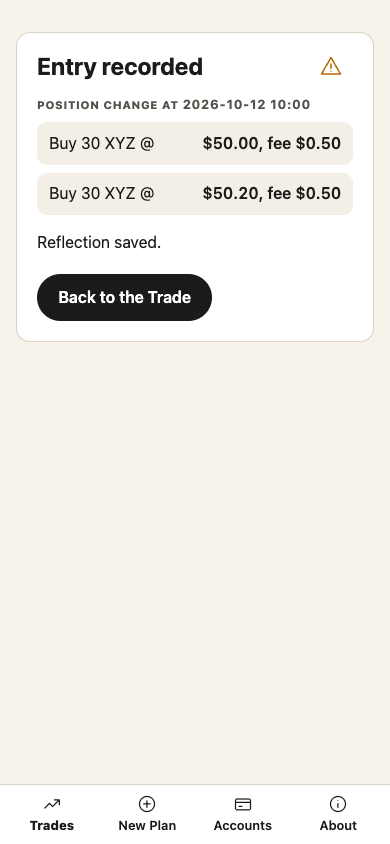
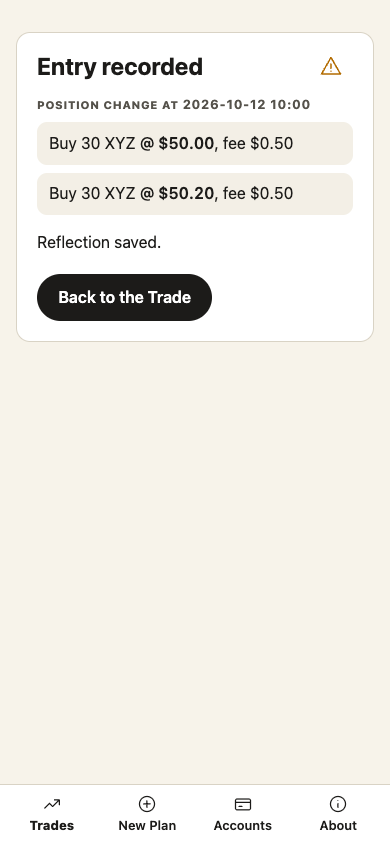
style(ui): T2.62 narrow line breaks for the Underlying header, "@ price" and Execution rows
Claude-Session: https://claude.ai/code/session_0115bntoBTHkkC72fZTEU7bt

Changed region(s): [[0.3692, 0.2156, 0.8923, 0.2464], [0.3692, 0.154, 0.8923, 0.1848]]

diff --git a/e2e/d2/ui-alignment.spec.ts b/e2e/d2/ui-alignment.spec.ts
@@ -1187,7 +1187,9 @@ test.describe('T2.53 Detail, receipt and Accounts styling', () => {
     await context.close();
   });
 
-  test('should put each Execution row on the tint with its money right-aligned', async ({ server, profile }) => {
+  // U9(d) (T2.62) replaced the right-aligned money with one phrase, so this asserts the tint only; the price
+  // placement is measured under T2.62 line breaks.
+  test('should put each Execution row on the tint', async ({ server, profile }) => {
     void server;
     const context = await profile.launch();
     const page = await onboardedPage(context);
@@ -1197,28 +1199,9 @@ test.describe('T2.53 Detail, receipt and Accounts styling', () => {
       await page.setViewportSize({ width, height: 900 });
       await expectLayout(page, width);
       const tint = await tokenColour(page, '--tint');
-      const rows = await section.locator('ul.executions > li').evaluateAll((els) =>
-        els.map((el) => {
-          const money = el.querySelector<HTMLElement>('.execution-money');
-          const summary = el.querySelector<HTMLElement>('.execution-summary');
-          const what = el.querySelector<HTMLElement>('.execution-what');
-          return {
-            ground: getComputedStyle(el).backgroundColor,
-            align: money ? getComputedStyle(money).textAlign : '',
-            moneyRight: money?.getBoundingClientRect().right ?? Number.NaN,
-            summaryRight: summary?.getBoundingClientRect().right ?? Number.NaN,
-            moneyLeft: money?.getBoundingClientRect().left ?? Number.NaN,
-            whatRight: what?.getBoundingClientRect().right ?? Number.NaN,
-          };
-        }),
-      );
-      expect(rows.length, `rows at ${width}`).toBe(3);
-      for (const row of rows) {
-        expect(row.ground, `row ground at ${width}`).toBe(tint);
-        expect(row.align, `money alignment at ${width}`).toBe('right');
-        expect(Math.abs(row.moneyRight - row.summaryRight), `money flush right at ${width}`).toBeLessThanOrEqual(1);
-        expect(row.moneyLeft, `money after the action text at ${width}`).toBeGreaterThanOrEqual(row.whatRight);
-      }
+      const grounds = await section.locator('ul.executions > li').evaluateAll((els) => els.map((el) => getComputedStyle(el).backgroundColor));
+      expect(grounds.length, `rows at ${width}`).toBe(3);
+      for (const ground of grounds) expect(ground, `row ground at ${width}`).toBe(tint);
     }
     await context.close();
   });
@@ -1236,17 +1219,12 @@ test.describe('T2.53 Detail, receipt and Accounts styling', () => {
       const tint = await tokenColour(page, '--tint');
       const rows = await receipt.locator('ul.executions > li').evaluateAll((els) =>
         els.map((el) => {
-          const money = el.querySelector('.execution-money') as HTMLElement;
-          return { ground: getComputedStyle(el).backgroundColor, align: getComputedStyle(money).textAlign, moneyRight: money.getBoundingClientRect().right, right: el.getBoundingClientRect().right - parseFloat(getComputedStyle(el).paddingRight), text: el.textContent };
+          return { ground: getComputedStyle(el).backgroundColor, text: el.textContent };
         }),
       );
       expect(rows.length, `receipt rows at ${width}`).toBe(2);
       expect(rows[0]!.text, 'receipt row text').toMatch(/^Buy 30 XYZ @ \$50\.00, fee \$0\.50$/);
-      for (const row of rows) {
-        expect(row.ground, `receipt row ground at ${width}`).toBe(tint);
-        expect(row.align, `receipt money alignment at ${width}`).toBe('right');
-        expect(row.right - row.moneyRight, `receipt money flush right at ${width}`).toBeLessThanOrEqual(1);
-      }
+      for (const row of rows) expect(row.ground, `receipt row ground at ${width}`).toBe(tint);
       const link = receipt.getByRole('link', { name: 'Back to the Trade' });
       const look = await link.evaluate((el) => {
         const s = getComputedStyle(el);
@@ -1467,4 +1445,133 @@ test.describe('T2.55-B6 narrow 1R and Reward : risk on an incoherent Planned row
       await context.close();
     });
   }
+});
+
+// Client rects of the first "@" and of the price after it, and of "fee" and its amount, found by walking the
+// element's text so spans and inline markup do not matter. Runs in the page, so it is self-contained.
+interface AtPair {
+  readonly text: string;
+  readonly atTop: number;
+  readonly priceTop: number;
+  readonly atRight: number;
+  readonly priceLeft: number;
+  readonly feeTop: number | undefined;
+  readonly feeAmountTop: number | undefined;
+}
+
+const atPairs = (loc: Locator): Promise<AtPair[]> =>
+  loc.evaluateAll((els) => {
+    const rectOf = (el: Element, from: number, to: number): DOMRect => {
+      const walker = document.createTreeWalker(el, NodeFilter.SHOW_TEXT);
+      const range = document.createRange();
+      let offset = 0;
+      let started = false;
+      for (let n = walker.nextNode(); n; n = walker.nextNode()) {
+        const len = (n.textContent ?? '').length;
+        if (!started && from < offset + len) {
+          range.setStart(n, from - offset);
+          started = true;
+        }
+        if (started && to <= offset + len) {
+          range.setEnd(n, to - offset);
+          break;
+        }
+        offset += len;
+      }
+      return range.getBoundingClientRect();
+    };
+    return els.map((el) => {
+      const text = el.textContent ?? '';
+      const at = text.indexOf('@');
+      const price = text.indexOf('$', at);
+      const fee = text.indexOf('fee');
+      const feeAmount = fee < 0 ? -1 : text.indexOf('$', fee);
+      const atRect = rectOf(el, at, at + 1);
+      const priceRect = rectOf(el, price, price + 1);
+      return {
+        text,
+        atTop: atRect.top,
+        priceTop: priceRect.top,
+        atRight: atRect.right,
+        priceLeft: priceRect.left,
+        feeTop: fee < 0 ? undefined : rectOf(el, fee, fee + 3).top,
+        feeAmountTop: feeAmount < 0 ? undefined : rectOf(el, feeAmount, feeAmount + 1).top,
+      };
+    });
+  });
+
+function expectAtWithPrice(pairs: readonly AtPair[], where: string): void {
+  for (const p of pairs) {
+    expect(Math.abs(p.priceTop - p.atTop), `${where}: price on the line of its "@" in "${p.text}"`).toBeLessThanOrEqual(1);
+    if (p.feeTop !== undefined) expect(Math.abs(p.feeAmountTop! - p.feeTop), `${where}: fee beside its amount in "${p.text}"`).toBeLessThanOrEqual(1);
+  }
+}
+
+test.describe('T2.62 line breaks', () => {
+  for (const width of [320, 390, 1280]) {
+    test(`should keep the Underlying header on one line and each Trade cell's "@" with its price at ${width}`, async ({ server, profile }) => {
+      void server;
+      const context = await profile.launch();
+      const page = await onboardedPage(context);
+      await seedTrades(page);
+      await page.setViewportSize({ width, height: width === 1280 ? 900 : 844 });
+      await expectLayout(page, width);
+      for (const tab of TABS) {
+        if (tab === 'Planned') await openPlanned(page);
+        const table = page.getByRole('table', { name: `${tab} Trades` });
+        await expect(table).toBeVisible(READY);
+        const header = await table.locator('thead th').first().evaluate((th) => {
+          const range = document.createRange();
+          range.selectNodeContents(th);
+          return { text: th.textContent, height: range.getBoundingClientRect().height, lineHeight: parseFloat(getComputedStyle(th).lineHeight) };
+        });
+        expect(header.text).toBe('Underlying');
+        expect(header.height, `${tab} Underlying header height at ${width}`).toBeLessThanOrEqual(1.6 * header.lineHeight);
+        expectAtWithPrice(await atPairs(table.locator('tbody tr td:nth-child(2)')), `${tab} Trade cell at ${width}`);
+        const overflow = await page.evaluate(() => document.documentElement.scrollWidth - document.documentElement.clientWidth);
+        expect(overflow, `${tab} page overflow at ${width}`).toBeLessThanOrEqual(0);
+      }
+      await context.close();
+    });
+  }
+
+  test('should read each Detail Execution as one phrase with the price straight after the "@" at 320, 390 and 1280', async ({ server, profile }) => {
+    void server;
+    const context = await profile.launch();
+    const page = await onboardedPage(context);
+    await openTradeWithJournal(page);
+    const rows = page.getByRole('region', { name: 'Executions (3)', exact: true }).locator('ul.executions > li .execution-summary');
+    for (const width of [320, 390, 1280]) {
+      await page.setViewportSize({ width, height: 900 });
+      await expectLayout(page, width);
+      const pairs = await atPairs(rows);
+      expect(pairs.length, `Execution rows at ${width}`).toBe(3);
+      expectAtWithPrice(pairs, `Execution row at ${width}`);
+      for (const p of pairs) expect(p.priceLeft - p.atRight, `price follows the "@" at ${width} in "${p.text}"`).toBeLessThanOrEqual(12);
+      expect(await page.evaluate(() => document.documentElement.scrollWidth - document.documentElement.clientWidth), `overflow at ${width}`).toBeLessThanOrEqual(0);
+    }
+    await context.close();
+  });
+
+  test('should read each receipt row as one phrase with the price after the "@" and "fee" beside its amount at 320, 390 and 1280', async ({ server, profile }) => {
+    void server;
+    const context = await profile.launch();
+    const page = await onboardedPage(context);
+    await confirmReference(page);
+    await recordEntry(page, PC1);
+    const rows = page.getByRole('region', { name: 'Entry recorded', exact: true }).locator('ul.executions > li');
+    for (const width of [320, 390, 1280]) {
+      await page.setViewportSize({ width, height: 900 });
+      await expectLayout(page, width);
+      const pairs = await atPairs(rows);
+      expect(pairs.length, `receipt rows at ${width}`).toBe(2);
+      expectAtWithPrice(pairs, `receipt row at ${width}`);
+      for (const p of pairs) {
+        expect(p.feeTop, 'receipt shows a fee').toBeDefined();
+        expect(p.priceLeft - p.atRight, `price follows the "@" at ${width} in "${p.text}"`).toBeLessThanOrEqual(12);
+      }
+      expect(await page.evaluate(() => document.documentElement.scrollWidth - document.documentElement.clientWidth), `overflow at ${width}`).toBeLessThanOrEqual(0);
+    }
+    await context.close();
+  });
 });

diff --git a/src/ui/app.css b/src/ui/app.css
@@ -419,7 +419,7 @@ label.chip:focus-within {
 
 .table-scroll {
   overflow-x: auto;
-  --pin: 5rem;
+  --pin: 6.5rem;
   --shadow: rgba(28, 27, 25, 0.28);
   /* The card ground lives here, under the table, so scroll shadows can be drawn over it. A local
      cover hides each shadow until the region has scrolled that way; the left pair sits beside the
@@ -490,6 +490,12 @@ table.trades th {
   letter-spacing: 0.04em;
   color: var(--muted);
   text-align: left;
+}
+
+/* The pinned header word is never broken inside; the column is sized to hold it. */
+table.trades th:first-child {
+  overflow-wrap: normal;
+  word-break: keep-all;
 }
 
 table.trades th.number {
@@ -748,33 +754,26 @@ ul.executions > li:first-child {
   cursor: pointer;
 }
 
-/* The action text on the left, the money flush right, the time on its own line. */
+/* One phrase, "Buy 30 XYZ @ $50.00", the "@" never parted from its price; the time on its own line. */
 .execution-summary {
   flex: 1 1 0;
   min-width: 0;
-  display: flex;
-  flex-wrap: wrap;
-  column-gap: 0.5rem;
   font-variant-numeric: tabular-nums;
 }
 
 .execution-summary .nowrap {
-  flex-basis: 100%;
+  display: block;
   color: var(--muted);
   font-size: 0.9rem;
 }
 
-.execution-money {
-  margin-left: auto;
+.execution-price {
+  white-space: nowrap;
   font-weight: 600;
 }
 
-/* The receipt reuses the row: no disclosure, the money after the action text. */
+/* The receipt reuses the phrase: no disclosure, the fee after the price. */
 ul.executions > li.execution-line {
-  display: flex;
-  flex-wrap: wrap;
-  justify-content: space-between;
-  column-gap: 0.5rem;
   padding: 0.6rem 0.75rem;
   font-variant-numeric: tabular-nums;
 }

diff --git a/src/ui/screens/TradeList.tsx b/src/ui/screens/TradeList.tsx
@@ -181,12 +181,24 @@ function OpenList({
 
 const NOT_AVAILABLE = 'Not available';
 
+// The "@" stays with its price when the text wraps.
+function TradeText({ text }: { readonly text: string }) {
+  const at = text.indexOf('@ ');
+  if (at < 0) return <span>{text}</span>;
+  return (
+    <span>
+      {text.slice(0, at)}
+      <span className="nowrap">{text.slice(at)}</span>
+    </span>
+  );
+}
+
 // The Trade cell: the summary text, then on a narrow screen a second line with the figures whose
 // columns are hidden there (plan section 2a). The wide layout hides the line instead.
 function TradeCell({ text, disagrees, line }: { readonly text: string; readonly disagrees: boolean; readonly line: string | undefined }) {
   return (
     <>
-      <span>{text}</span>
+      <TradeText text={text} />
       {/* Text, not colour alone, carries the meaning; an agreeing row shows nothing. The spaces keep
           the cell's text and accessible name from running the parts together. */}
       {disagrees && (

diff --git a/src/ui/screens/TradeList.test.tsx b/src/ui/screens/TradeList.test.tsx
@@ -222,7 +222,8 @@ describe('Trades table columns', () => {
     const open = await openTable([openItem]);
     const openCell = within(within(open).getAllByRole('row')[1]!).getAllByRole('cell')[1]!;
     expect(openCell.textContent).toBe('Long 60 shares @ $50.10 Net cost $3,007.00');
-    expect(within(openCell).getByText('Long 60 shares @ $50.10')).toBeTruthy();
+    // T2.62: the "@" and its price sit in one no-wrap span, so the summary text has no break between them.
+    expect(within(openCell).getByText('@ $50.10').className).toBe('nowrap');
     expect(within(openCell).getByText('Net cost $3,007.00').className).toBe('trade-line');
     // The Net cost column carries the same figure for the wide layout.
     expect(within(within(open).getAllByRole('row')[1]!).getAllByRole('cell')[2]!.textContent).toBe('$3,007.00');

diff --git a/src/ui/screens/PositionChangeReceipt.tsx b/src/ui/screens/PositionChangeReceipt.tsx
@@ -70,8 +70,9 @@ export function PositionChangeReceipt({ result, timeZone }: PositionChangeReceip
         <ul className="executions">
           {saved.executions.map((e) => (
             <li key={e.factId} className="execution-line">
-              <span className="execution-what">{`${e.action} ${e.quantity} ${e.instrument.symbol} @`}</span>{' '}
-              <span className="execution-money number">{`${price(e.price)}, fee ${price(e.fee)}`}</span>
+              <span className="execution-what">{`${e.action} ${e.quantity} ${e.instrument.symbol}`}</span>{' '}
+              <span className="execution-price number">{`@ ${price(e.price)}`}</span>,{' '}
+              <span className="nowrap number">{`fee ${price(e.fee)}`}</span>
             </li>
           ))}
         </ul>

diff --git a/src/ui/screens/TradeDetail.tsx b/src/ui/screens/TradeDetail.tsx
@@ -345,8 +345,8 @@ function ExecutionRow({
       >
         <span id={`execution-summary-${e.factId}`} className="execution-summary">
           {/* The spaces between the spans keep the name "Buy 60 XYZ @ $50.10 time", the visible text: inline spans trim their own. */}
-          <span className="execution-what">{`${what} @`}</span>{' '}
-          <span className="execution-money number">{price(e.price)}</span>{' '}
+          <span className="execution-what">{what}</span>{' '}
+          <span className="execution-price number">{`@ ${price(e.price)}`}</span>{' '}
           <span className="nowrap">{time}</span>
         </span>
         <span id={`execution-hint-${e.factId}`} className="visually-hidden">

diff --git a/evidence/D02/tdd-log.md b/evidence/D02/tdd-log.md
@@ -809,3 +809,11 @@ Every `it should` case from D2's breakdown, section 4, run red and then green, o
 | T2.61 | should give Net cost and every other amount the same grouping | note | `npx vitest run src/ui/format.test.ts -t "should give Net cost and every other amount the same grouping"` | First-run pass, flagged for the user | netCost already grouped and money now groups. Mutation: netCost strips the commas; failed `expected '$30061.00' to be '$30,061.00'`. |
 | T2.61 | should show a 1,234.00 dollar price grouped in the Trade text, the Executions and the receipt | note | `npx vitest run src/ui/format.test.ts -t "should show a 1,234.00 dollar price grouped in the Trade text, the Executions and the receipt"` | First-run pass, flagged for the user | Built by case 1 (tradeSummary and decimalMoney call money). Mutation: tradeSummary used formatMoney; failed `expected 'Long 2 shares @ $1234.00' to be 'Long 2 shares @ $1,234.00'`. Renamed from "$1,234.00 price" (the dollar sign breaks -t); tested at formatter level, not a component render. |
 | T2.61 | (all) | refactor | `npx vitest run src/ui` (178 passed) | netCost reduced to money plus the credit rule, since money now groups; no test-name or assertion changes beyond the dollar-sign rephrase. |
+| T2.62 | should keep the Underlying header on one line and each Trade cells at with its price at 320 | red | `npx playwright test e2e/d2/ui-alignment.spec.ts -g "T2.62"` | exit 1; 4 of 5 failed, 1 passed | Open Underlying header height at 320: Expected <= 29.7, Received 33.5 (header breaks UNDERL / YING). Same at 390. (structural; run by hand) |
+| T2.62 | should read each Detail Execution as one phrase with the price straight after the at | red | `npx playwright test e2e/d2/ui-alignment.spec.ts -g "T2.62"` | exit 1 | price follows the "@" at 320 in "Buy 30 XYZ @ $50.00 2026-10-12 10:00": Expected <= 12, Received 29.9 |
+| T2.62 | should read each receipt row as one phrase with the price after the at and fee beside its amount | red | `npx playwright test e2e/d2/ui-alignment.spec.ts -g "T2.62"` | exit 1 | receipt price right-aligned away from the "@" (see run output) |
+| T2.62 | (all five) | green | `npx playwright test e2e/d2/ui-alignment.spec.ts -g "T2.62"` | exit 0; 5 passed | After the changes; build:faults rebuilt first. |
+| T2.62 | should keep the Underlying header on one line and each Trade cells at with its price at 1280 | note | `npx playwright test e2e/d2/ui-alignment.spec.ts -g "Trade cell.s .@. with its price at 1280"` | First-run pass, flagged for the user | Wide already had nowrap headers and nowrap Trade cells. Mutation: pin 3rem, header wrap and break-all at wide; failed `Open Underlying header height at 1280`. |
+| T2.62 | the Trade cell at-with-price check at 320 and 390 | note | `npx playwright test e2e/d2/ui-alignment.spec.ts -g "Trade cell.s .@. with its price at (320|390)"` | Not reached in red (the header assertion failed first in the same case) | After the green change, mutation: TradeText returns the plain span (no nowrap); failed `Open Trade cell at 320: price on the line of its "@" in "Long 60 shares @ $50.10 Net cost $3,007.00"` (also 390). |
+| T2.62 | (T2.53 Execution rows) | note | edited `e2e/d2/ui-alignment.spec.ts` | U9(d) replaces T2.53's right-aligned money | The Detail test is renamed "should put each Execution row on the tint" and keeps only the tint; the receipt test drops its text-align and flush-right assertions. Price placement is measured under T2.62. |
+| T2.62 | (TradeList unit) | note | `npx vitest run src` | A TradeList unit assertion looked for the whole summary as one text node; changed to assert the no-wrap span holding "@ $50.10" (U9c wraps it). TextContent assertions unchanged. |
